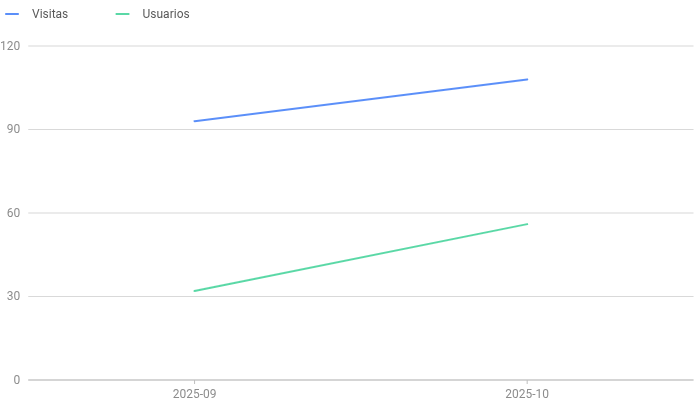
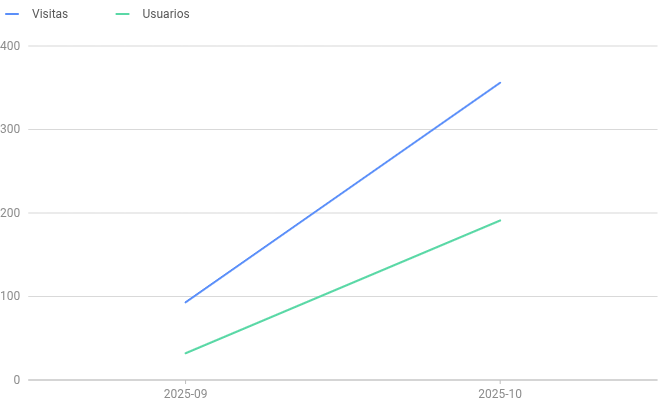
Quartz sync: Nov 3, 2025, 5:13 PM

diff --git a/content/media/Estatísticas/Gráficos.md b/content/media/Estatísticas/Gráficos.md
@@ -20,10 +20,10 @@ data:
     value: 32
   - label: 2025-10
     serie: Visitas
-    value: 108
+    value: 356
   - label: 2025-10
     serie: Usuarios
-    value: 56
+    value: 191
 
 options:
   xField: label
